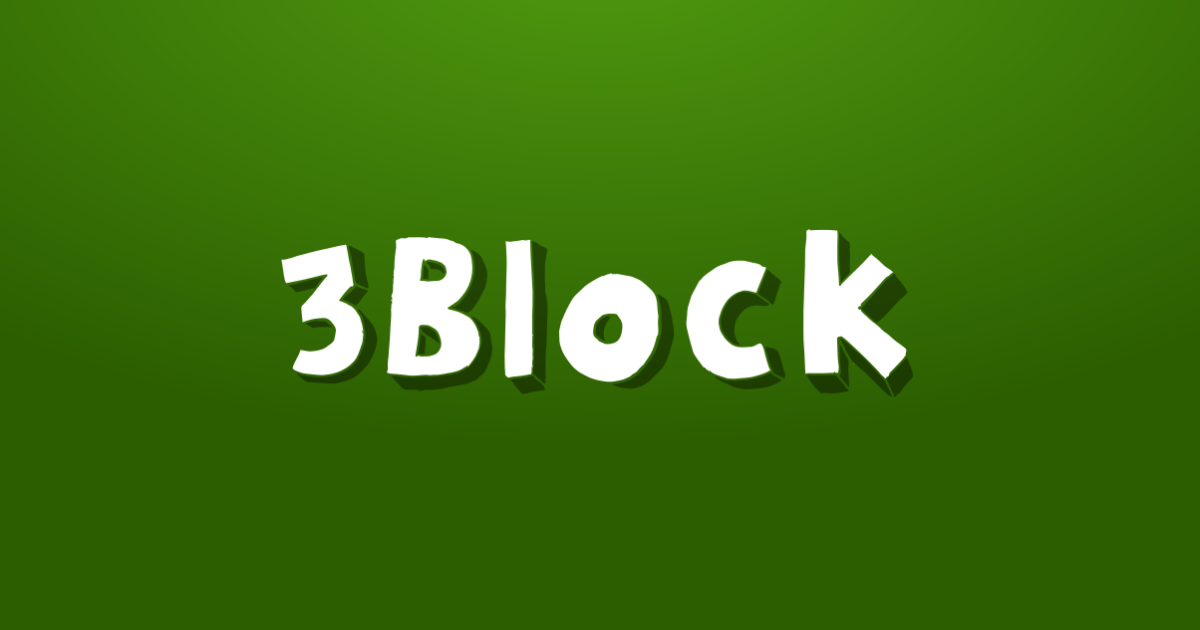
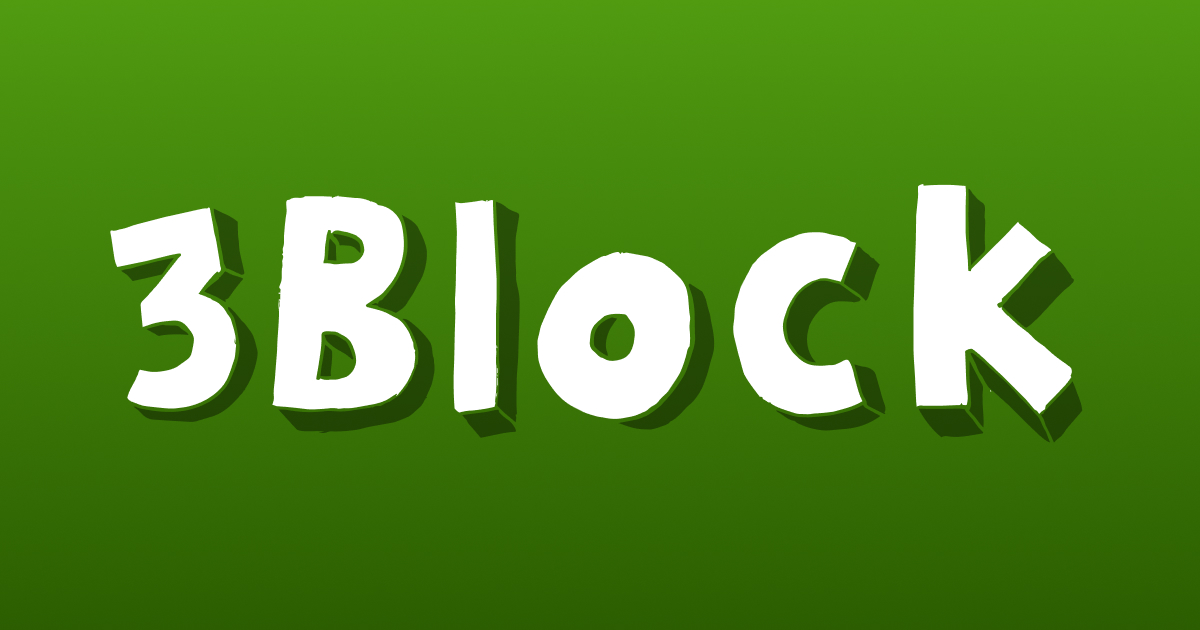
of avif

diff --git a/index.html b/index.html
@@ -9,7 +9,7 @@
   <meta property="og:title" content="3 Block — community groups with the neighbors around you">
   <meta property="og:description" content="Build a community with the people around you. We're launching in Brooklyn, with microgrants for aspiring organizers.">
   <meta property="og:url" content="https://smombartz.github.io/3block-mvp-landing-page/">
-  <meta property="og:image" content="https://smombartz.github.io/3block-mvp-landing-page/og-image.png">
+  <meta property="og:image" content="https://smombartz.github.io/3block-mvp-landing-page/og-image.avif">
   <meta property="og:image:width" content="1200">
   <meta property="og:image:height" content="630">
   <meta name="twitter:card" content="summary_large_image">

diff --git a/apply.html b/apply.html
@@ -9,7 +9,7 @@
   <meta property="og:title" content="Apply — 3Block">
   <meta property="og:description" content="3Block helps people find and form hyperlocal neighborhood groups. We're launching in Brooklyn and picking up to 10 organizers to kick this off.">
   <meta property="og:url" content="https://smombartz.github.io/3block-mvp-landing-page/apply.html">
-  <meta property="og:image" content="https://smombartz.github.io/3block-mvp-landing-page/og-image.png">
+  <meta property="og:image" content="https://smombartz.github.io/3block-mvp-landing-page/og-image.avif">
   <meta property="og:image:width" content="1200">
   <meta property="og:image:height" content="630">
   <meta name="twitter:card" content="summary_large_image">
